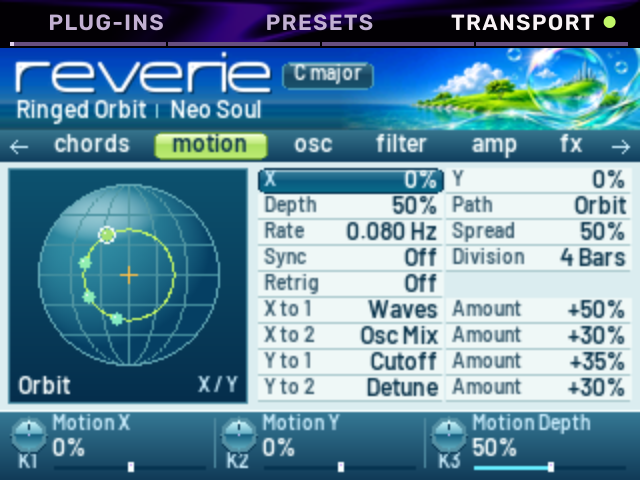
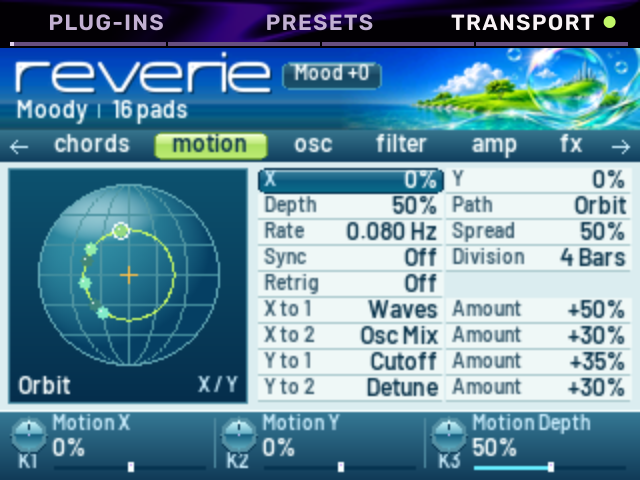
docs(sp16): show the released Mood interface

Changed region(s): [[0.0312, 0.1875, 0.4062, 0.2812], [0.125, 0.4688, 0.2188, 0.6875], [0.4375, 0.125, 0.5938, 0.1875]]

diff --git a/README.md b/README.md
@@ -21,7 +21,7 @@ hdslaveOS names them Chord 1-8 and Lift 1-8. The custom screen uses `melodee.scr
 
 ## The pads
 
-![The CHORDS page in hdslaveOS, pad 6 just struck](docs/reverie-chords.png)
+![The Chords page in hdslaveOS with the Dawn Mood selected and pad 6 playing](docs/reverie-chords.png)
 
 | Pads | What they play |
 |---|---|
@@ -410,6 +410,8 @@ The page draws nothing while nothing changes; while notes sound it moves at 25 f
 ![The OSC page: Velvet Saw and Choir at their positions](docs/reverie-osc.png)
 
 ## SP-16
+
+![Reverie on SP-16 with the Dawn Mood selected and pad 6 held](docs/reverie-sp16-chords.png)
 
 The SP-16 build, version **0.4.4-sp16.12**, uses the `org.sixteen.screen/1` extension on freesp16's
 `feat/plugin-tracks` checkout. The 780 × 285 Reverie panel sits between the
